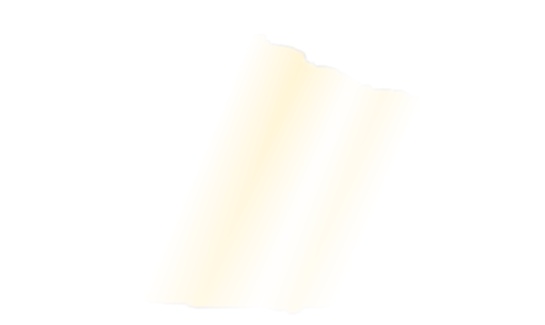
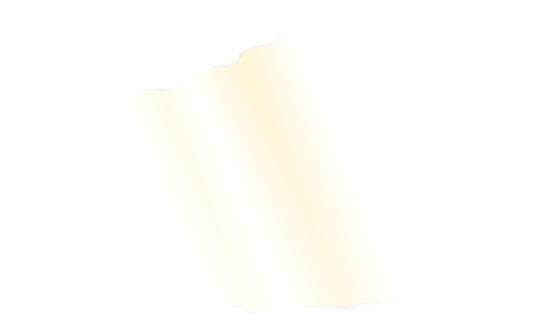
Add files via upload

diff --git a/test-responsive/css/responsive-exterior-portrait-v6.css b/test-responsive/css/responsive-exterior-portrait-v6.css
@@ -1,4 +1,4 @@
-/* Movie Quiz – portrait exterior v6.2
+/* Movie Quiz – portrait exterior v6.3
    TEST INSTANCE ONLY.
    Mobile + tablet portrait rebuild using a dedicated 1086×1235 top-anchored master.
 
@@ -111,7 +111,7 @@
     opacity:0;
     transform:translate3d(132px,0,0);
     will-change:transform,opacity!important;
-    animation:mqPV6CarShine 8s ease-in-out infinite;
+    animation:mqPV6CarShine 9s ease-in-out infinite;
   }
   @keyframes mqPV6CarShine{
     0%,62%{transform:translate3d(132px,0,0);opacity:0}
@@ -169,31 +169,43 @@
     62%{opacity:.48}
   }
 
+  /* Desktop-style marquee light pulse using the exact portrait master cutout. */
+  html.mq-exterior-portrait-v6 body.mq-noir-master .mq-pv6-marquee-lights{
+    left:118px!important;top:580px!important;width:968px!important;height:158px!important;z-index:11!important;
+    opacity:1!important;mix-blend-mode:screen!important;
+    filter:brightness(1.02) drop-shadow(8px 11px 7px rgba(0,0,0,.18));
+    animation:mqPV6MarqueeLight 5.4s ease-in-out infinite alternate;
+  }
+  @keyframes mqPV6MarqueeLight{
+    from{filter:brightness(1.02) drop-shadow(8px 11px 7px rgba(0,0,0,.18))}
+    to{filter:brightness(1.16) saturate(1.04) drop-shadow(9px 13px 8px rgba(0,0,0,.24)) drop-shadow(0 0 4px rgba(255,183,70,.18))}
+  }
+
   /* Marquee bulbs – exact bulb pixels split into 3 chase groups from the portrait master. */
   html.mq-exterior-portrait-v6 body.mq-noir-master .mq-pv6-marquee{
-    left:120px!important;top:585px!important;width:966px!important;height:150px!important;z-index:12!important;
-    opacity:.18!important;mix-blend-mode:screen!important;
+    left:120px!important;top:585px!important;width:966px!important;height:150px!important;z-index:9!important;
+    opacity:.10!important;mix-blend-mode:screen!important;
   }
   html.mq-exterior-portrait-v6 body.mq-noir-master .mq-pv6-marquee.halo{
-    opacity:.20!important;filter:blur(.45px);animation:mqPV6BulbHalo 2.8s ease-in-out infinite;
+    opacity:.12!important;filter:blur(.38px);animation:mqPV6BulbHalo 3.2s ease-in-out infinite;
   }
   html.mq-exterior-portrait-v6 body.mq-noir-master .mq-pv6-marquee.g1,
   html.mq-exterior-portrait-v6 body.mq-noir-master .mq-pv6-marquee.g2,
   html.mq-exterior-portrait-v6 body.mq-noir-master .mq-pv6-marquee.g3{
-    opacity:.16!important;
-    filter:brightness(1.28) saturate(1.05) drop-shadow(0 0 2px rgba(255,198,92,.56));
-    animation:mqPV6BulbChase 1.05s ease-in-out infinite;
+    opacity:.09!important;
+    filter:brightness(1.18) saturate(1.03) drop-shadow(0 0 2px rgba(255,198,92,.44));
+    animation:mqPV6BulbChase 1.35s ease-in-out infinite;
   }
   html.mq-exterior-portrait-v6 body.mq-noir-master .mq-pv6-marquee.g1{animation-delay:0s}
   html.mq-exterior-portrait-v6 body.mq-noir-master .mq-pv6-marquee.g2{animation-delay:-.45s}
   html.mq-exterior-portrait-v6 body.mq-noir-master .mq-pv6-marquee.g3{animation-delay:-.90s}
   @keyframes mqPV6BulbChase{
-    0%,22%,100%{opacity:.12;filter:brightness(1.14) saturate(1.03)}
-    38%,70%{opacity:.98;filter:brightness(1.92) saturate(1.10) drop-shadow(0 0 4px rgba(255,205,105,.86)) drop-shadow(0 0 9px rgba(255,156,42,.36))}
+    0%,28%,100%{opacity:.07;filter:brightness(1.08) saturate(1.02)}
+    42%,68%{opacity:.72;filter:brightness(1.56) saturate(1.07) drop-shadow(0 0 3px rgba(255,205,105,.68)) drop-shadow(0 0 7px rgba(255,156,42,.24))}
   }
   @keyframes mqPV6BulbHalo{
-    0%,100%{opacity:.14;filter:blur(.26px)}
-    50%{opacity:.34;filter:blur(.82px)}
+    0%,100%{opacity:.09;filter:blur(.20px)}
+    50%{opacity:.20;filter:blur(.60px)}
   }
 
   /* Steam – two copies of the exact master-derived plume. */

diff --git a/test-responsive/js/responsive-exterior-portrait-v6.js b/test-responsive/js/responsive-exterior-portrait-v6.js
@@ -1,7 +1,7 @@
 (()=>{
   'use strict';
 
-  const VERSION='responsive-exterior-portrait-v6.2';
+  const VERSION='responsive-exterior-portrait-v6.3';
   const initialDpr=Math.max(.1,Number(window.devicePixelRatio)||1);
   const QUERY='(orientation: portrait) and (max-width: 1180px)';
   const MASTER_W=1086;
@@ -53,6 +53,7 @@
     addImg(s,'mq-pv6-jackdaws-glow','jackdaws-glow.png');
     addImg(s,'mq-pv6-hotel-glow','hotel-glow.png');
 
+    addImg(s,'mq-pv6-marquee-lights','marquee-lights.png');
     addImg(s,'mq-pv6-marquee halo','marquee-bulbs-halo.png');
     addImg(s,'mq-pv6-marquee g1','marquee-bulbs-1.png');
     addImg(s,'mq-pv6-marquee g2','marquee-bulbs-2.png');
